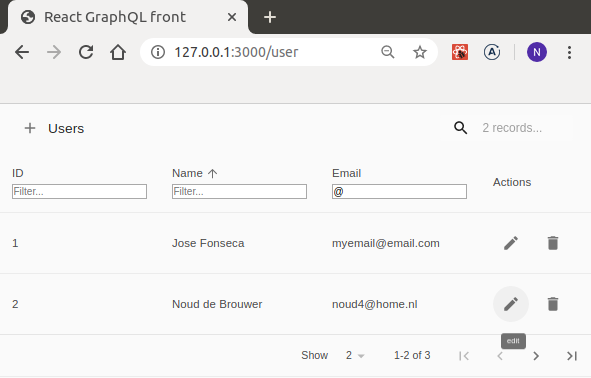
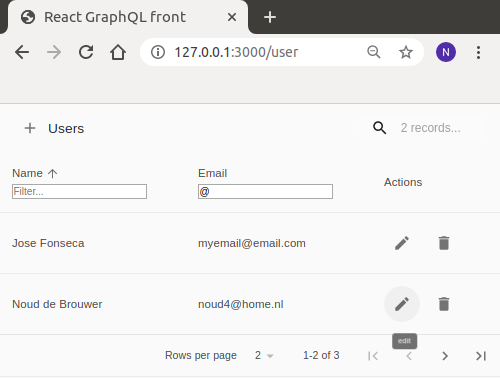
table column id display none

diff --git a/src/components/EntityTable/EntityTable.jsx b/src/components/EntityTable/EntityTable.jsx
@@ -3,9 +3,9 @@ import { useHistory } from 'react-router-dom';
 
 import { useTranslation } from 'react-i18next';
 
-import { makeStyles } from '@material-ui/core/styles';
+import { createStyles, makeStyles, Theme } from '@material-ui/core/styles';
 
-import { useFilters, useGlobalFilter, usePagination, useRowSelect, useSortBy, useTable } from 'react-table';
+import { useFilters, useGlobalFilter, useGroupBy, usePagination, useRowSelect, useSortBy, useTable } from 'react-table';
 
 import TableToolbar from './TableToolbar'
 import Table from '@material-ui/core/Table';
@@ -24,6 +24,10 @@ import CircularProgress from '@material-ui/core/CircularProgress';
 
 import { useCreateUserMutation } from '../../graphql';
 
+/**
+ * https://codesandbox.io/s/github/tannerlinsley/react-table/tree/master/examples/kitchen-sink
+ * @param {*} props 
+ */
 export default function EntityTable(props) {
   const {
     columns = [],
@@ -37,6 +41,19 @@ export default function EntityTable(props) {
   } = props;
 
   const { t } = useTranslation('table');
+  
+  const styles = {
+    invisable: {
+      display: "none",
+    },
+    normal: {
+      display: "",
+    },
+  }
+
+  /**
+   * pagination
+   */
 
   const pageSizeOptions = [1, 2, 10, 20, 50, 100];
 
@@ -139,7 +156,7 @@ export default function EntityTable(props) {
     useSortBy,
     usePagination,
     useRowSelect
-);
+  );
 
   React.useEffect(() => {
     fetchData({ pageIndex, pageSize, search });
@@ -237,7 +254,6 @@ export default function EntityTable(props) {
         onChange={(e) => {
           setFilter(e.target.value || undefined); // Set undefined to remove the filter entirely
           // store search and perform graphql
-          console.log(fieldName);
           search[fieldName] = e.target.value;
           fetchData({ pageIndex, pageSize, searchTerms: search });
         }}
@@ -274,12 +290,13 @@ export default function EntityTable(props) {
       <TableHead>
           {headerGroups.map(headerGroup => (
             <TableRow {...headerGroup.getHeaderGroupProps()}>
-              {headerGroup.headers.map(column => (
-                <TableCell
-                  {...(column.id === 'selection'
-                    ? column.getHeaderProps()
-                    : column.getHeaderProps(column.getSortByToggleProps()))}
-                >
+              {headerGroup.headers.map((column, index) => (
+                  <TableCell
+                    {...(column.id === 'selection'
+                      ? column.getHeaderProps()
+                      : column.getHeaderProps(column.getSortByToggleProps()))}
+                    style={index === 0 ? styles.invisable : styles.normal}
+                  >
                   {column.render('Header')}
                   {column.id !== 'selection' ? (
                     <TableSortLabel
@@ -300,8 +317,11 @@ export default function EntityTable(props) {
             prepareRow(row);
             return (
               <TableRow {...row.getRowProps()}>
-                {row.cells.map((cell) => {
-                  return <TableCell {...cell.getCellProps()}>{cell.render('Cell')}</TableCell>;
+                {row.cells.map((cell, index) => {
+                  const style = index === 0 ? styles.invisable : styles.normal;
+                  return (
+                      <TableCell style={style} {...cell.getCellProps()}>{cell.render('Cell')}</TableCell>
+                  )
                 })}
               </TableRow>
             );

diff --git a/src/components/EntityTable/CellRenderers/ActionButtons.tsx b/src/components/EntityTable/CellRenderers/ActionButtons.tsx
@@ -5,7 +5,7 @@ import EditButton from './EditButton';
 
 const useStyles = makeStyles(theme => ({
   root: {
-      display: "inline-flex",
+    display: "inline-flex",
   },
 }));
 
